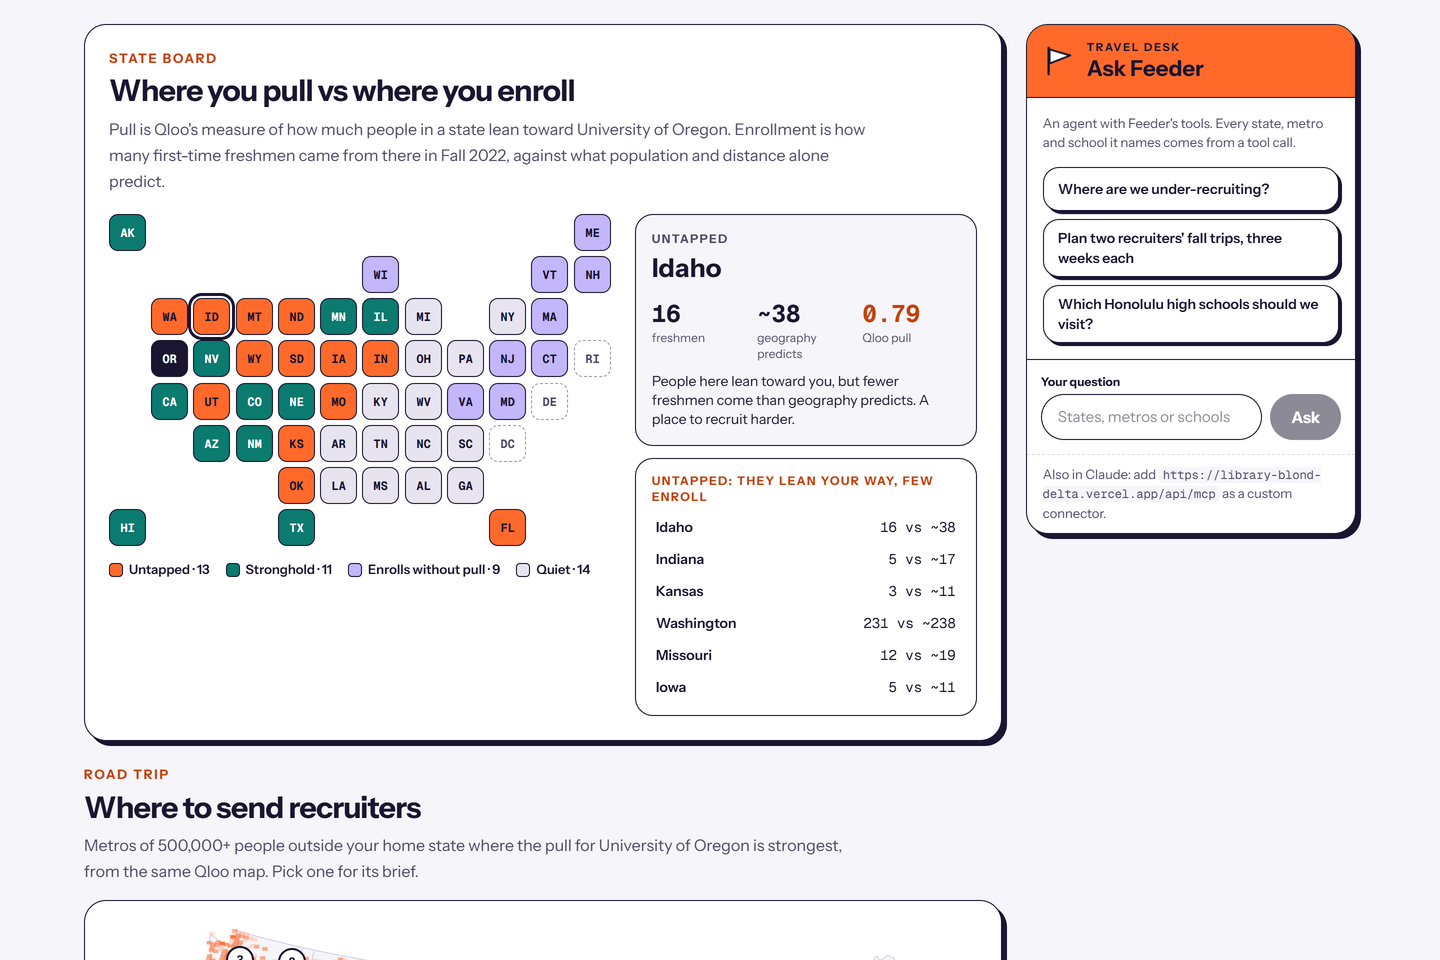
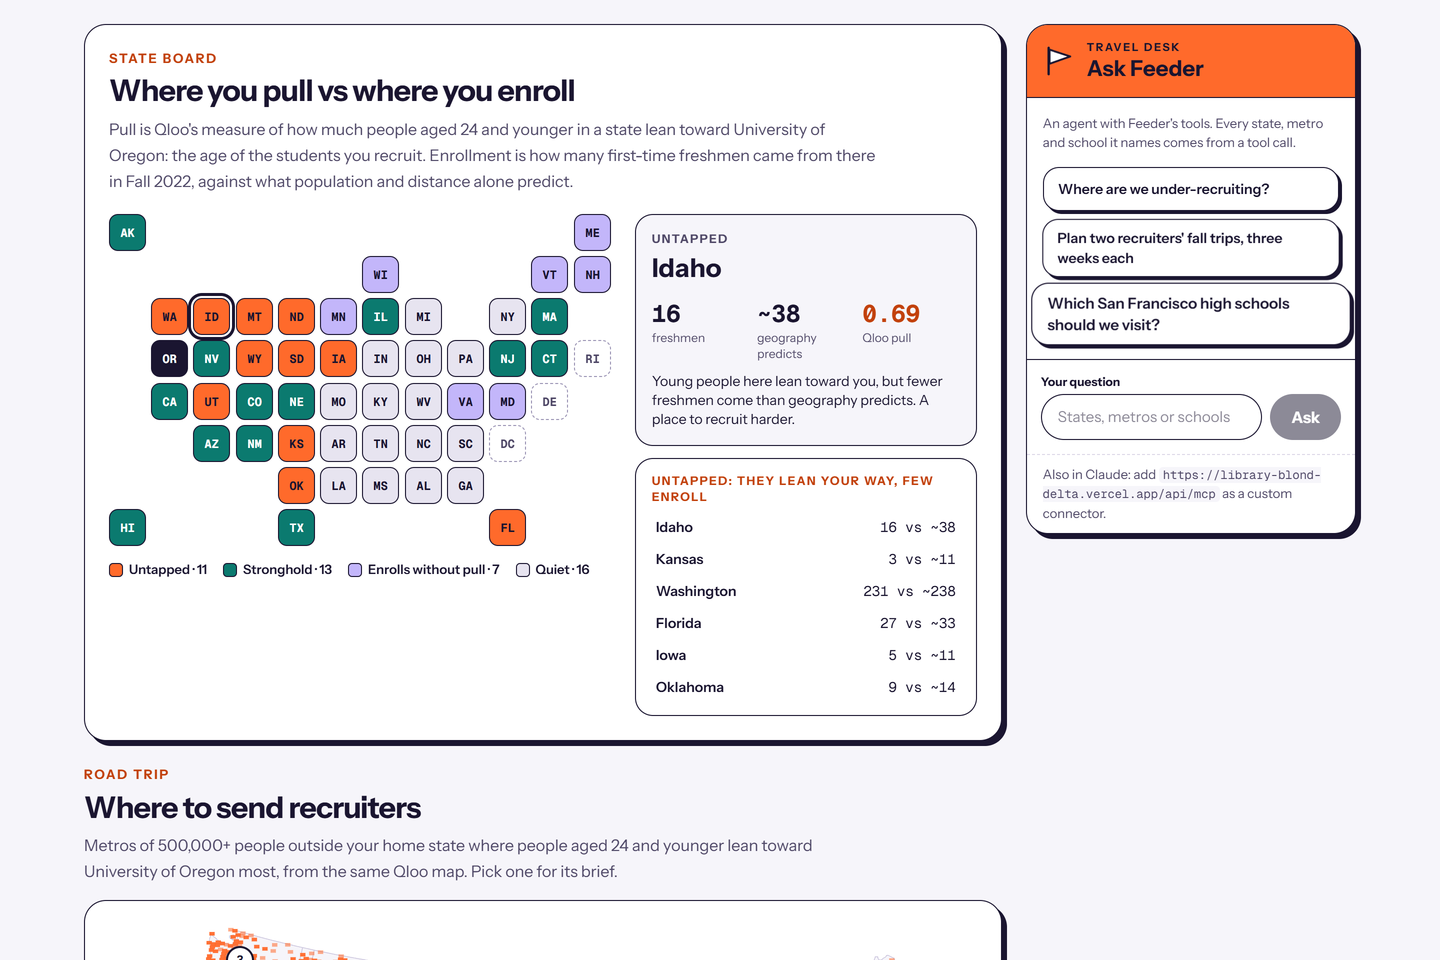
README: young-audience pull and its result, access stops, and the live Qloo tool

diff --git a/README.md b/README.md
@@ -1,14 +1,14 @@
 # Feeder
 
-A recruiting desk for university enrollment teams. Feeder shows where people who lean toward a university live, compares that with where its freshmen actually come from, and turns the gap into recruiter travel: which states to work harder, which metros to send people to, and which high schools to visit when they get there.
+A recruiting desk for university enrollment teams. Feeder shows where young people who lean toward a university live, compares that with where its freshmen actually come from, and turns the gap into recruiter travel: which states to work harder, which metros to send people to, and which high schools to visit when they get there, including the ones recruiters usually skip.
 
-For each of 139 four-year universities that draw at least a fifth of their freshmen from out of state, Feeder gives:
+For each of 142 four-year universities that draw at least a fifth of their freshmen from out of state, Feeder gives:
 
-- **A state board.** For every state outside the home state: the Fall 2022 first-time freshmen the university drew, what population and distance alone predict, and its pull in [Qloo](https://qloo.com)'s taste graph. States fall into four groups. *Untapped* states lean the university's way but send fewer freshmen than geography predicts. *Strongholds* lean its way and deliver. *Enrolls without pull* states send students for reasons other than taste, and *Quiet* states do neither.
-- **An audience map.** Qloo's national heatmap for the university, drawn on a US map with the campus and the top recruiting metros pinned.
-- **A road trip.** The metros of 500,000+ people outside the home state where the pull is strongest. Each opens a metro brief: high schools to visit, rival colleges nearby, and the music and TV that resonate there.
-- **A visit day.** The top high schools on a street map in driving order, with a Google Maps link that opens the whole route, and upcoming college fairs in that city.
-- **An agent.** "Ask Feeder" answers with the desk's own tools and plans multi-week recruiter trips. The same tools work inside Claude as an MCP connector.
+- **A state board.** For every state outside the home state: the Fall 2022 first-time freshmen the university drew, what population and distance alone predict, and its pull among people aged 24 and younger in [Qloo](https://qloo.com)'s taste graph. States fall into four groups. *Untapped* states lean the university's way but send fewer freshmen than geography predicts. *Strongholds* lean its way and deliver. *Enrolls without pull* states send students for reasons other than taste, and *Quiet* states do neither.
+- **An audience map.** Qloo's national heatmap of young people who lean toward the university, with the campus and the top recruiting metros pinned.
+- **A road trip.** The metros of 500,000+ people outside the home state where that pull is strongest. Each opens a metro brief: high schools to visit, rival colleges nearby, and the music and TV young people there like.
+- **A visit day.** The top high schools on a street map in driving order, plus an *access stop*: the nearest large public school where many students come from low-income families. One link opens the whole route in Google Maps, and upcoming college fairs in that city are listed beside it.
+- **An agent.** "Ask Feeder" answers with the desk's own tools. It plans multi-week recruiter trips, and it can ask Qloo live where young people who like a particular brand, show, film, artist or game lean the university's way. The same tools work inside Claude as an MCP connector.
 
 **Live app:** https://library-blond-delta.vercel.app (free, no sign-in)
 **MCP endpoint:** `https://library-blond-delta.vercel.app/api/mcp` (in Claude: Settings → Connectors → add a custom connector)
@@ -18,20 +18,30 @@ For each of 139 four-year universities that draw at least a fifth of their fresh
 ## How it uses Qloo
 
 1. **The university in Qloo.** `/search` with `types=urn:entity:brand`. A match counts only when the entity's name equals the federal (IPEDS) name or one of its listed aliases, ignoring case, a leading "The", punctuation and a campus label. "Ohio State University" resolving to "Ohio State Football" is dropped.
-2. **A national heatmap per university.** `/v2/insights` with `filter.type=urn:heatmap`, `signal.interests.entities` set to the university and `filter.location.query=United States`. Each cell carries an affinity and a popularity.
+2. **A national heatmap of young people per university.** `/v2/insights` with `filter.type=urn:heatmap`, `signal.interests.entities` set to the university, `signal.demographics.age=24_and_younger` and `filter.location.query=United States`. Each cell carries an affinity and a popularity.
    - **State pull** is the popularity-weighted mean affinity of the cells inside a state (`src/lib/score/pull.ts`).
    - **Metro pull** is the same over cells within 60 km of a metro (`src/lib/score/metros.ts`).
-   - **The audience map** draws the cells with affinity of 0.5 or more on an Albers projection with Alaska and Hawaii insets.
+   - **The audience map** draws the top quarter of cells on an Albers projection with Alaska and Hawaii insets.
+   - Students are about 18, so the board uses the young audience. The pre-registered test below found it tracks enrollment better than everyone who leans toward the university (alumni and sports fans included).
 3. **Metro briefs, fetched once and kept.** Within 40 km of the metro, with the university as the interest signal:
-   - `filter.type=urn:entity:place` returns the places people who lean toward the university favour, sorted by name into high schools and colleges (`src/lib/brief/classify.ts`).
-   - `urn:entity:artist` and `urn:entity:tv_show` give the music and TV that resonate there, for outreach and event themes.
-   - Each high school keeps its coordinates for the visit-day map.
+   - `filter.type=urn:entity:place` returns the places people who lean toward the university favour, sorted by name into high schools and colleges (`src/lib/brief/classify.ts`). Place queries stay all-ages: with an age signal, Qloo returns no schools.
+   - `urn:entity:artist` and `urn:entity:tv_show` with the 24-and-younger signal give the music and TV young people there like, for outreach and event themes.
+4. **Live questions from the agent.** `audience_hotspots` resolves an interest the agent picks (for example Patagonia for "students who love the outdoors") with `/search`. It then asks for one heatmap with the university and that interest together as the signal, and ranks metros by it. For the University of Oregon, adding Patagonia lifts Reno from 22nd to 2nd. Answers are kept, so a repeat question costs nothing (`src/lib/agent/hotspots.ts`).
 
 ## The visit day
 
-The day starts at the top-ranked high school and goes to the nearest one next, five stops in all (`src/lib/brief/route.ts`). Legs are straight-line kilometres; the "Open the day in Google Maps" link hands Google the whole route, which gives real drive times without a paid directions call. The map is MapLibre GL with OpenFreeMap vector tiles.
+The day starts at the top-ranked high school and goes to the nearest one next, five stops in all (`src/lib/brief/route.ts`).
 
-College fairs come from Google Events through [SerpApi](https://serpapi.com): one search per metro ("college fair" and the city), shared by every university and kept for three weeks. A keyword filter keeps admissions events (college fairs and expos, college nights, NACAC fairs, discovery days, HBCU fairs, financial aid and FAFSA nights) and drops study-abroad, camp and job fairs, galas and conferences. Past dates drop off on their own. Searches run under a monthly cap; when it is spent, the brief says so and metros already searched keep their fairs.
+One of the five is an access stop: the large public school nearest the route where many students come from low-income families. Research on public universities' out-of-state recruiting (Ozan Jaquette and colleagues) found their visits concentrate on affluent schools, many of them private. Qloo's rankings follow the existing audience, so the day makes room for one such school on purpose.
+
+The access stop comes from the federal Common Core of Data (NCES), through the Urban Institute's Education Data API. A school qualifies if it runs a schoolwide Title I programme. In a state that reports no Title I status (California), it qualifies if at least 40% of its students are eligible for free or reduced-price lunch, the same threshold Title I uses. The page labels which basis applied.
+
+Legs are straight-line kilometres. The "Open the day in Google Maps" link hands Google the whole route, which gives real drive times without a paid directions call. The map is MapLibre GL with OpenFreeMap vector tiles.
+
+College fairs come from Google Events through [SerpApi](https://serpapi.com): one search per metro ("college fair" and the city), shared by every university and kept for three weeks.
+- **Kept:** admissions events, such as college fairs and expos, college nights, NACAC fairs, discovery days, HBCU fairs, and financial-aid and FAFSA nights.
+- **Dropped:** study-abroad, camp and job fairs, galas and conferences. Past dates drop off on their own.
+- **Budget:** searches run under a monthly cap. When it's spent, the brief says so, and metros already searched keep their fairs.
 
 ## The agent and MCP
 
@@ -40,54 +50,64 @@ College fairs come from Google Events through [SerpApi](https://serpapi.com): on
 | Tool | What it does |
 |---|---|
 | `find_universities` | Find a university by name, city or state |
-| `state_board` | Pull against enrollment for every state, grouped as above |
+| `state_board` | Young-audience pull against enrollment for every state, grouped as above |
 | `recruiter_metros` | The strongest-pull metros of 500,000+ people outside the home state |
-| `metro_brief` | High schools, rival colleges, what resonates, the visit day and nearby college fairs |
+| `metro_brief` | High schools, rival colleges, what young people like there, the visit day with its access stop, and nearby college fairs |
+| `audience_hotspots` | Asks Qloo live where young people who lean toward the university and like a given brand, show, film, artist or game live |
 | `plan_trips` | Recruiter travel: the strongest metros split west to east across recruiters, then into weeks of nearby stops |
 | `get_evidence` | The test results below and their limits |
 
-Trip planning is deterministic: no model decides where anyone goes. Stops in one week stay within 1,200 km of each other, and when the weeks can't hold every metro, the weakest are dropped. The same registry is served at `/api/mcp` over streamable HTTP (stateless, no sign-in). The public demo has daily limits on the agent and on new briefs.
+Trip planning is deterministic: no model decides where anyone goes. Stops in one week stay within 1,200 km of each other. When the weeks can't hold every metro, the weakest stop is dropped and the weeks are regrouped. The same registry is served at `/api/mcp` over streamable HTTP (stateless, no sign-in). The public demo has daily limits on the agent, on new briefs and on live Qloo questions.
 
 ## Evidence
 
-The test was written down and committed before it ran ([docs/eval-plan.md](docs/eval-plan.md), with one amendment made before any score was computed). Ground truth is federal enrollment data: IPEDS first-time freshmen by state of residence, Fall 2022, with Fall 2020 as a replication. 124 universities were fixed by rule before any Qloo call on them; 109 had enough heatmap coverage to score.
+The test was written down and committed before it ran ([docs/eval-plan.md](docs/eval-plan.md)). Two amendments were each committed before their own data was fetched. Ground truth is federal enrollment data: IPEDS first-time freshmen by state of residence, Fall 2022, with Fall 2020 as a replication. 124 universities were fixed by rule before any Qloo call on them, and 109 had enough heatmap coverage to score.
 
-Each state score was compared with **gravity**: what the state's population and its distance from campus alone predict. Two other arms ran beside Qloo. The **assistant** arm asked Claude Haiku 5.5 to rank the states from the university's name alone, with no tools or data. The **placebo** arm used another university's Qloo scores.
+Each state score was compared with **gravity**, which is what the state's population and its distance from campus alone predict. Two other arms ran beside Qloo:
+- **The assistant arm:** Claude Haiku 5.5 ranked the states from the university's name alone, with no tools or data.
+- **The placebo arm:** another university's Qloo scores.
 
 **Does Qloo pull explain what geography misses?** Partial Spearman with the gravity residual, mean over universities, 95% bootstrap intervals:
 
 | Score | Fall 2022 | Fall 2020 |
 |---|---|---|
-| Qloo pull | **+0.32** (0.27 to 0.36) | **+0.32** (0.27 to 0.37) |
-| Assistant alone | +0.28 (0.25 to 0.31) | +0.27 (0.24 to 0.30) |
-| Placebo: another university's pull | +0.00 (−0.06 to 0.07) | +0.02 (−0.04 to 0.08) |
+| **Qloo pull, 24 and younger** (amendment 2) | **+0.41** (0.36 to 0.45) | **+0.41** (0.36 to 0.45) |
+| Qloo pull, all ages | +0.32 (0.27 to 0.36) | +0.32 (0.27 to 0.37) |
+| AI assistant alone | +0.28 (0.25 to 0.31) | +0.27 (0.24 to 0.30) |
+| Placebo: another university's young pull | +0.14 (0.09 to 0.20) | +0.15 (0.10 to 0.21) |
+| Placebo: another university's all-ages pull | +0.00 (−0.06 to 0.07) | +0.02 (−0.04 to 0.08) |
 
 **Predicting every state, out of sample** (leave one university out, Spearman of predicted against actual):
 
 | Model | Fall 2022 | Fall 2020 |
 |---|---|---|
 | Population and distance | 0.74 | 0.73 |
-| … plus Qloo | 0.78 | 0.77 |
+| … plus Qloo young pull | 0.78 | 0.77 |
 | … plus the assistant | 0.85 | 0.84 |
 | … plus both | 0.85 | 0.84 |
 
 What this means:
 
-- **Qloo pull explains part of what geography misses,** in both years, and a placebo explains nothing. Adding it to population and distance improves prediction in both years (+0.04, interval 0.02 to 0.06).
-- **It matches the assistant at that:** +0.04 ahead in 2022 (−0.01 to 0.09) and +0.05 in 2020 (0.01 to 0.09). It gets there from measured taste rather than remembered facts, and it reaches down to metros and high schools, where an assistant's memory runs thin.
-- **For ranking every state, the assistant is better,** and adding Qloo to it adds nothing (−0.002). So the state board shows pull next to real enrollment for a team to read both; it does not claim Qloo beats an assistant at the ranking.
+- **Young-audience pull beats the AI assistant** at explaining what geography misses: +0.13 in 2022 (interval 0.08 to 0.18) and +0.14 in 2020. What young people actually like explains more of where freshmen come from than what an assistant remembers.
+- **It beats the all-ages pull** by +0.09 (0.05 to 0.12) in both years. The rule written in advance said the board would switch to it if so, and it has.
+- **A caution:** another university's young pull also scores +0.14, so part of the gain is where young people are in general. A university's own young pull still beats that placebo by +0.26 (0.20 to 0.33).
+- **For ranking every state outright, the assistant is still better,** and Qloo adds nothing on top of it. So the board shows pull next to real enrollment for a team to read both. It doesn't claim Qloo wins the ranking.
 
-**What this does not establish:** Qloo's data is from 2026 and the enrollment data from 2020 and 2022, so this measures alignment, not a forecast. Where students come from also reflects past recruiting, alumni, athletics and price, and the test can't separate taste from those. Metros, high schools, rival colleges and what resonates are untested, because federal data has nothing below the state. Only first-time freshmen are counted.
+**What this does not establish:**
+- Qloo's data is from 2026 and the enrollment data from 2020 and 2022, so this measures alignment, not a forecast.
+- Where students come from also reflects past recruiting, alumni, athletics and price, and the test can't separate taste from those.
+- Metros, high schools, rival colleges, what resonates and the live interest questions are untested, because federal data has nothing below the state.
+- Only first-time freshmen are counted, and Qloo's "24 and younger" is wider than freshmen.
 
 This repository first held another product, Shelf Desk, which picked teen books for students' interests from Qloo's book graph. Its pre-registered test on library checkouts failed: the picks did no better than random. The record is kept in [docs/retired](docs/retired/README.md).
 
-![A visit day in the San Francisco brief: five high schools in driving order, with the college fairs nearby](docs/screenshots/visit-day.png)
+![A visit day in the San Francisco brief: four Qloo-ranked high schools and an access stop, with the college fairs nearby](docs/screenshots/visit-day.png)
 
 ## Architecture
 
 - **App:** Next.js 16 (App Router) on Vercel, Tailwind CSS v4, Postgres on Neon, MapLibre GL for the street map.
-- **Precomputed data:** state boards, metro pull and the audience map are built ahead of time and loaded into Postgres. Metro briefs are fetched from Qloo on first open and kept, so later visitors read them from the database. Raw Qloo output stays out of the repository (`data/cache` and `data/raw` are ignored); the public-domain inputs and the evaluation's aggregate results are committed.
-- **Tests:** `npm test` runs the Vitest suite (Qloo client and parameters, state pull, metro pull, the board, the brief classifier, the map projection, visit-day routing, the fair filter and trip planning).
+- **Precomputed data:** state boards, metro pull, the audience map and the public-school list are built ahead of time and loaded into Postgres. Metro briefs and the agent's live questions go to Qloo on first ask and are kept, so later visitors read them from the database. Raw Qloo output stays out of the repository (`data/cache` and `data/raw` are ignored); the public-domain inputs and the evaluation's aggregate results are committed.
+- **Tests:** `npm test` runs the Vitest suite (Qloo client and parameters, state pull, metro pull, the board, the brief classifier, the map projection, visit-day routing and access stops, the fair filter and trip planning).
 
 ## Run it locally
 
@@ -100,11 +120,12 @@ psql "$DATABASE_URL" -f db/schema.sql
 node scripts/build-data.mjs
 node scripts/resolve.mjs
 node scripts/resolve-more.mjs
-node scripts/heatmaps.mjs
-npx tsx scripts/score-states.mts
+node scripts/heatmaps.mjs && node scripts/heatmaps.mjs --young
+npx tsx scripts/score-states.mts && npx tsx scripts/score-states.mts --young
 node scripts/state-paths.mjs
 npx tsx scripts/load-db.mts
 npx tsx scripts/load-cells.mts
+node scripts/public-schools.mjs && npx tsx scripts/load-schools.mts
 
 npm run dev
 ```
@@ -115,6 +136,7 @@ To rerun the evaluation: `node analysis/assistant-arm.mjs`, then `python analysi
 
 - Taste data: [Qloo](https://qloo.com) Insights API.
 - Enrollment and institutions: IPEDS, National Center for Education Statistics (public domain).
+- Public high schools: the Common Core of Data, National Center for Education Statistics (public domain), through the Urban Institute's Education Data API.
 - Population and places: US Census Bureau (2020 census centres of population, 2023 Gazetteer, 2025 metro estimates).
 - State shapes: Natural Earth (public domain).
 - Street map: OpenFreeMap tiles from OpenMapTiles and OpenStreetMap contributors.
